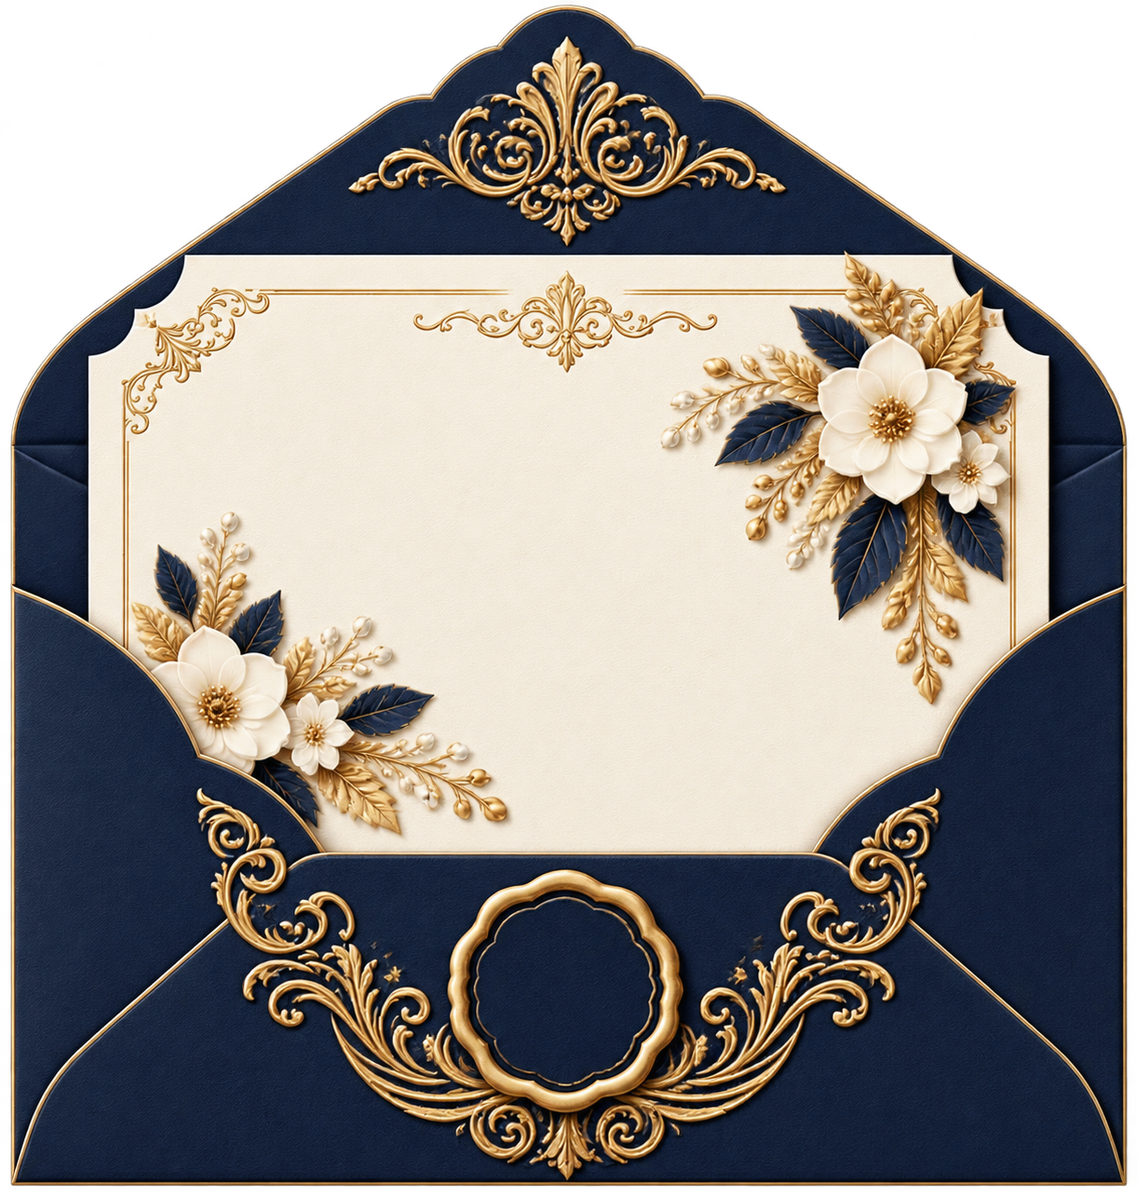
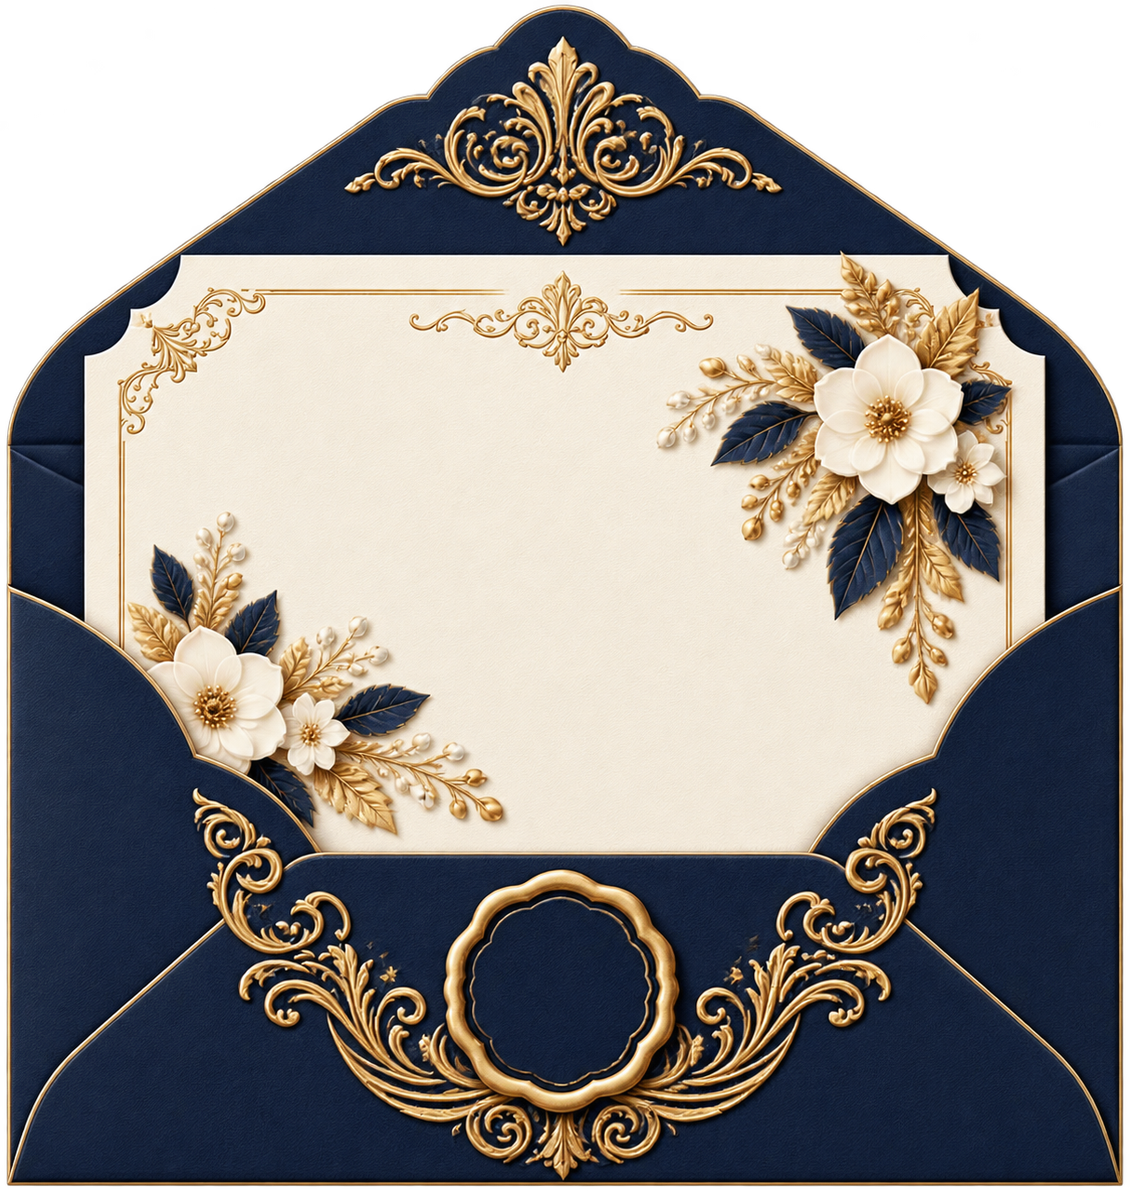
Fix ivory-bloom envelope crop margins across 7 color variants
The envelope-closed/envelope-open art for rose, sage, mauve, sky,
navy, burgundy and mocha had a visible cream margin baked around
the actual envelope illustration (2-10% depending on side/variant),
so the card never filled its frame edge-to-edge. Tightened the crop
to the illustration's real content bounds and recomputed the seal
monogram position and Scene-1 text zone for each affected variant
to match.

diff --git a/web/prisma/seed.ts b/web/prisma/seed.ts
@@ -935,9 +935,9 @@ async function main() {
           style: "bridal-frame",
           assetFolder: "ivory-bloom-rose",
           layout: {
-            closedAspect: "1200/800",
-            sealPosition: { left: "50.1%", top: "57.1%" },
-            openTextZone: { insetX: "20%", top: "22%", bottom: "33%" },
+            closedAspect: "1182/727",
+            sealPosition: { left: "50.1%", top: "59.4%" },
+            openTextZone: { insetX: "16.2%", top: "22.3%", bottom: "31.7%" },
             pass: { textTop: "23%", iconsTop: "43%", qr: { left: "37.4%", width: "26.5%", top: "78.7%", height: "11.6%" } },
           },
         },
@@ -967,9 +967,9 @@ async function main() {
           style: "bridal-frame",
           assetFolder: "ivory-bloom-sage",
           layout: {
-            closedAspect: "1200/800",
-            sealPosition: { left: "50.3%", top: "55.4%" },
-            openTextZone: { insetX: "20%", top: "22%", bottom: "32%" },
+            closedAspect: "1169/731",
+            sealPosition: { left: "50.5%", top: "57.6%" },
+            openTextZone: { insetX: "17.8%", top: "22.4%", bottom: "30.8%" },
             pass: { textTop: "23%", iconsTop: "43%", qr: { left: "38.4%", width: "25.2%", top: "80.5%", height: "11.7%" } },
           },
         },
@@ -1030,9 +1030,9 @@ async function main() {
           style: "bridal-frame",
           assetFolder: "ivory-bloom-mauve",
           layout: {
-            closedAspect: "1200/800",
-            sealPosition: { left: "50.1%", top: "57.1%" },
-            openTextZone: { insetX: "22%", top: "28%", bottom: "27%" },
+            closedAspect: "1170/695",
+            sealPosition: { left: "50.1%", top: "57.2%" },
+            openTextZone: { insetX: "19.8%", top: "28%", bottom: "27%" },
             pass: { textTop: "23%", iconsTop: "43%", qr: { left: "38.4%", width: "25.2%", top: "80.5%", height: "11.7%" } },
           },
         },
@@ -1062,9 +1062,9 @@ async function main() {
           style: "bridal-frame",
           assetFolder: "ivory-bloom-sky",
           layout: {
-            closedAspect: "1200/675",
-            sealPosition: { left: "50.7%", top: "55.8%" },
-            openTextZone: { insetX: "20%", top: "22%", bottom: "33%" },
+            closedAspect: "1167/643",
+            sealPosition: { left: "50.7%", top: "56.7%" },
+            openTextZone: { insetX: "18.7%", top: "22.4%", bottom: "31.9%" },
             pass: { textTop: "23%", iconsTop: "43%", qr: { left: "38.4%", width: "25.2%", top: "80.5%", height: "11.7%" } },
           },
         },
@@ -1095,9 +1095,9 @@ async function main() {
           style: "bridal-frame",
           assetFolder: "ivory-bloom-navy",
           layout: {
-            closedAspect: "1200/800",
-            sealPosition: { left: "50%", top: "57.8%" },
-            openTextZone: { insetX: "22%", top: "25%", bottom: "35%" },
+            closedAspect: "1158/656",
+            sealPosition: { left: "50.3%", top: "60%" },
+            openTextZone: { insetX: "21.9%", top: "25.1%", bottom: "34.7%" },
             pass: { textTop: "23%", iconsTop: "43%", qr: { left: "39%", width: "20%", top: "77.4%", height: "12.6%" } },
           },
         },
@@ -1128,9 +1128,9 @@ async function main() {
           style: "bridal-frame",
           assetFolder: "ivory-bloom-burgundy",
           layout: {
-            closedAspect: "1200/800",
-            sealPosition: { left: "50.4%", top: "58.4%" },
-            openTextZone: { insetX: "22%", top: "25%", bottom: "35%" },
+            closedAspect: "1167/694",
+            sealPosition: { left: "50.5%", top: "58%" },
+            openTextZone: { insetX: "21.6%", top: "24.7%", bottom: "34.6%" },
             pass: { textTop: "23%", iconsTop: "43%", qr: { left: "40%", width: "19%", top: "76.9%", height: "11.3%" } },
           },
         },
@@ -1161,9 +1161,9 @@ async function main() {
           style: "bridal-frame",
           assetFolder: "ivory-bloom-mocha",
           layout: {
-            closedAspect: "1200/800",
-            sealPosition: { left: "50%", top: "58.4%" },
-            openTextZone: { insetX: "22%", top: "25%", bottom: "35%" },
+            closedAspect: "1167/746",
+            sealPosition: { left: "50%", top: "60.1%" },
+            openTextZone: { insetX: "21.6%", top: "25.4%", bottom: "33.9%" },
             pass: { textTop: "23%", iconsTop: "43%", qr: { left: "48%", width: "28%", top: "58%", height: "14%" } },
           },
         },
